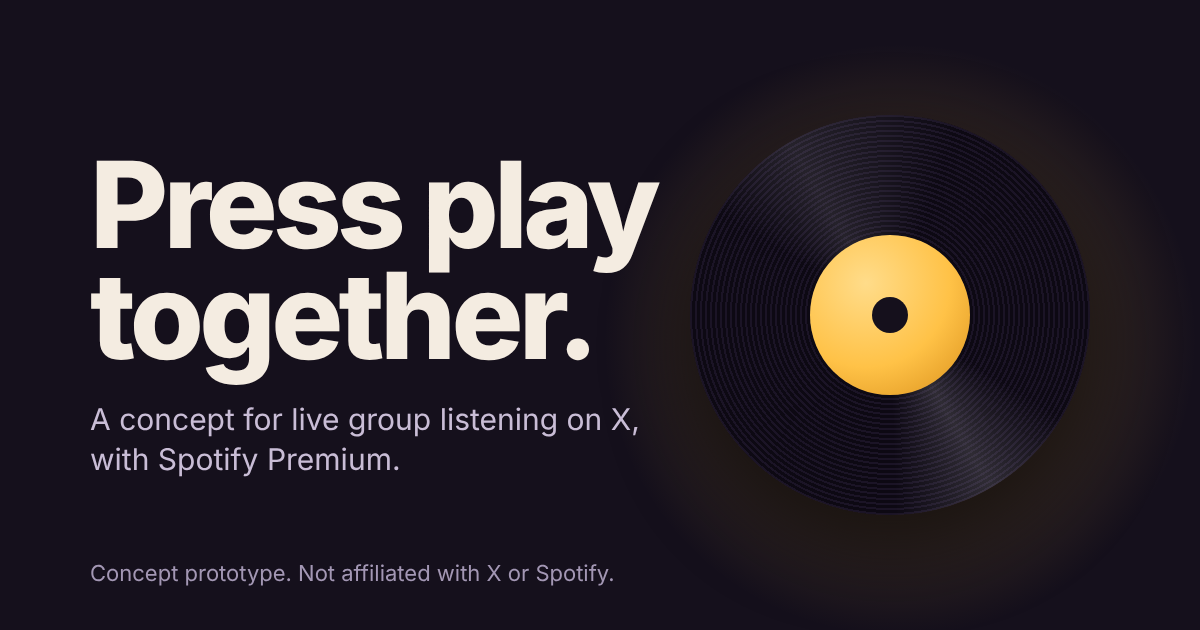
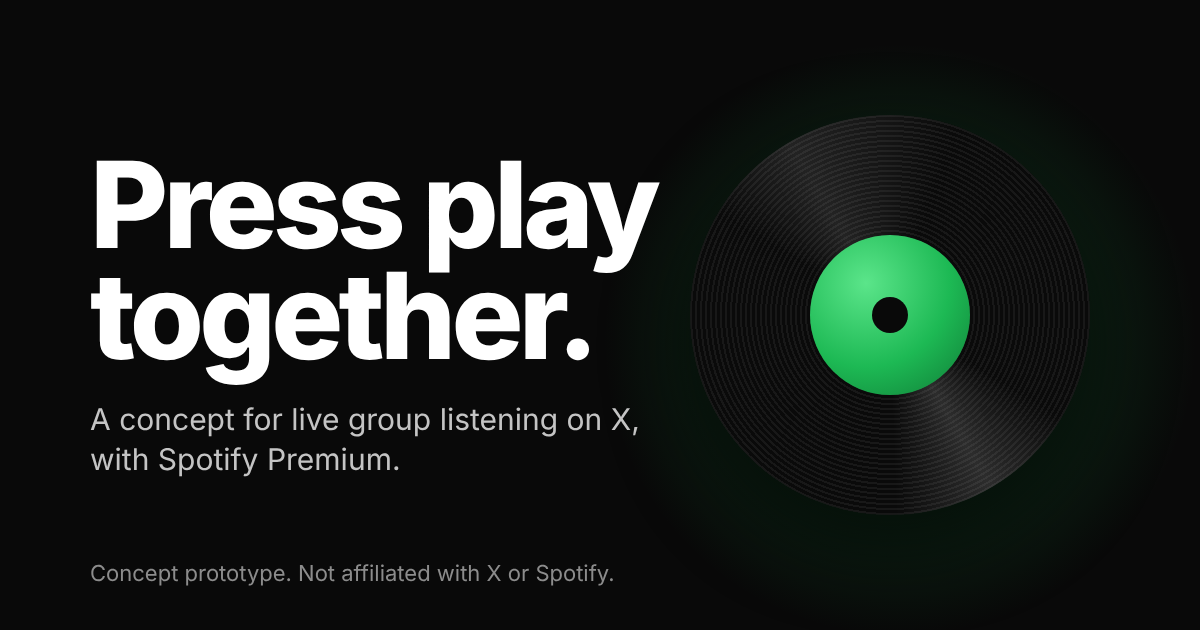
update message

diff --git a/assets/styles.css b/assets/styles.css
@@ -3,20 +3,21 @@
    Spotify green and X white appear only where content really comes from them. */
 
 :root {
-  --bg: #15101c;
-  --bg-2: #1b1424;
-  --surface: #211a2c;
-  --surface-2: #2b2238;
-  --line: #3a2f49;
-  --line-soft: #2e2540;
+  --bg: #090909;
+  --bg-2: #0d0d0d;
+  --surface: #111111;
+  --surface-2: #1a1a1a;
+  --line: #2a2a2a;
+  --line-soft: #1e1e1e;
 
-  --text: #f4ece1;
-  --text-2: #c9bdd6;
-  --muted: #a397b4;
+  --text: #ffffff;
+  --text-2: #c4c4c4;
+  --muted: #8c8c8c;
 
-  --lamp: #ffc247;
-  --lamp-ink: #2a1a00;
-  --lamp-soft: rgb(255 194 71 / 0.13);
+  --lamp: #1DB954;
+  --amber: #f39c12;
+  --lamp-ink: #000000;
+  --lamp-soft: rgb(29 185 84 / 0.13);
   --spotify: #1ed760;
   --x: #ffffff;
   --ok: #7be0a8;
@@ -104,10 +105,10 @@ h1:focus, h2:focus { outline: none; }
   font: 600 0.9375rem/1.2 var(--font-body); text-decoration: none; cursor: pointer;
   transition: background 0.15s, border-color 0.15s, transform 0.1s;
 }
-.btn:hover { background: #352a45; border-color: #4a3d5d; }
+.btn:hover { background: #262626; border-color: #3a3a3a; }
 .btn:active { transform: translateY(1px); }
 .btn.primary { background: var(--lamp); border-color: var(--lamp); color: var(--lamp-ink); }
-.btn.primary:hover { background: #ffd070; border-color: #ffd070; }
+.btn.primary:hover { background: #1ed760; border-color: #1ed760; }
 .btn.ghost { background: transparent; border-color: transparent; color: var(--text-2); }
 .btn.ghost:hover { background: var(--surface); color: var(--text); }
 .btn.sm { padding: 7px 14px; font-size: 0.875rem; }
@@ -148,7 +149,7 @@ h1:focus, h2:focus { outline: none; }
   padding: 10px 14px;
 }
 textarea { resize: vertical; }
-::placeholder { color: #8b7e9c; }
+::placeholder { color: #6f6f6f; }
 .input-icon { position: relative; display: block; }
 .input-icon > .i { position: absolute; left: 13px; top: 50%; translate: 0 -50%; color: var(--muted); pointer-events: none; }
 .input-icon > input { padding-left: 40px; }
@@ -201,11 +202,11 @@ input[type="range"]:disabled { opacity: 0.4; cursor: not-allowed; }
 /* ---------- Chips, avatars, covers ---------- */
 .chip {
   display: inline-flex; align-items: center; gap: 5px; padding: 3px 10px;
-  border-radius: 999px; border: 1px solid var(--line); background: rgb(21 16 28 / 0.72);
+  border-radius: 999px; border: 1px solid var(--line); background: rgb(9 9 9 / 0.72);
   color: var(--text-2); font-size: 0.75rem; font-weight: 600; white-space: nowrap;
 }
 .chip .i { width: 13px; height: 13px; }
-.chip.request { color: var(--lamp); border-color: rgb(255 194 71 / 0.4); }
+.chip.request { color: var(--amber); border-color: rgb(243 156 18 / 0.45); }
 .chip.private { color: var(--danger); border-color: rgb(255 138 138 / 0.4); }
 .chip-x { color: var(--x); border-color: rgb(255 255 255 / 0.45); }
 
@@ -229,7 +230,7 @@ input[type="range"]:disabled { opacity: 0.4; cursor: not-allowed; }
 }
 .cover::after {
   content: ""; position: absolute; inset: 27%; border-radius: 50%;
-  background: radial-gradient(circle, var(--bg) 0 9%, rgb(21 16 28 / 0.55) 10% 100%);
+  background: radial-gradient(circle, var(--bg) 0 9%, rgb(9 9 9 / 0.55) 10% 100%);
   box-shadow: 0 0 0 1px rgb(255 255 255 / 0.08);
 }
 .cover.sm, .cover.wide { aspect-ratio: auto; }
@@ -247,6 +248,7 @@ input[type="range"]:disabled { opacity: 0.4; cursor: not-allowed; }
 .notice .icon-btn { width: 30px; height: 30px; }
 
 .top {
+  min-width: 0;
   position: sticky; top: 0; z-index: 40;
   display: grid; grid-template-columns: auto 1fr auto; align-items: center; gap: 8px 20px;
   padding: 10px clamp(14px, 3vw, 28px);
@@ -256,10 +258,14 @@ input[type="range"]:disabled { opacity: 0.4; cursor: not-allowed; }
 }
 .brand { display: inline-flex; align-items: center; gap: 10px; text-decoration: none; }
 .brand-name { font: 800 1.2rem/1 var(--font-display); letter-spacing: -0.03em; }
-.mark { width: 30px; height: 30px; }
-.mark-ring { fill: none; stroke: var(--text); stroke-width: 2.4; }
-.mark-ring2 { fill: none; stroke: var(--text); stroke-opacity: 0.4; stroke-width: 2; }
-.mark-dot { fill: var(--lamp); }
+.lockup { display: inline-flex; align-items: center; gap: 6px; }
+.logo-tile { display: grid; place-items: center; width: 28px; height: 28px; border-radius: 8px; }
+.logo-tile.x { background: #fff; color: #000; }
+.logo-tile.sp { background: #1DB954; color: #fff; }
+.logo-tile svg { width: 15px; height: 15px; fill: currentColor; }
+.logo-times { color: var(--lamp); font-weight: 700; }
+.premium { margin-left: 2px; padding: 2px 7px; border-radius: 999px; background: linear-gradient(135deg, #1DB954, #1ed760); color: #000; font: 700 0.58rem/1.4 var(--font-body); letter-spacing: 0.02em; }
+.logo-g { width: 22px; height: 22px; fill: currentColor; stroke: none; }
 .tabs { display: flex; gap: 2px; overflow-x: auto; scrollbar-width: none; }
 .tabs::-webkit-scrollbar { display: none; }
 .tab {
@@ -270,6 +276,7 @@ input[type="range"]:disabled { opacity: 0.4; cursor: not-allowed; }
 .tab[aria-current="page"] { color: var(--text); background: var(--surface-2); }
 .tab-dot { width: 6px; height: 6px; border-radius: 50%; background: var(--lamp); margin-left: 7px; }
 .top-actions { display: flex; gap: 6px; align-items: center; }
+.top-actions .btn { white-space: nowrap; }
 
 /* ---------- Pages ---------- */
 .page { min-height: 60vh; padding-bottom: 40px; }
@@ -294,17 +301,17 @@ input[type="range"]:disabled { opacity: 0.4; cursor: not-allowed; }
 .circle { --size: min(86vw, 450px); --seat: clamp(38px, 9.5vw, 50px); position: relative; width: var(--size); aspect-ratio: 1; }
 .circle-glow {
   position: absolute; inset: -14%; pointer-events: none;
-  background: radial-gradient(closest-side, rgb(255 194 71 / 0.3), rgb(255 194 71 / 0.09) 58%, transparent 78%);
+  background: radial-gradient(closest-side, rgb(29 185 84 / 0.3), rgb(29 185 84 / 0.09) 58%, transparent 78%);
 }
 .rings i {
   position: absolute; inset: 0; margin: auto; width: 34%; aspect-ratio: 1; border-radius: 50%;
-  border: 1px solid rgb(255 194 71 / 0.4); animation: ring 3.9s ease-out infinite;
+  border: 1px solid rgb(29 185 84 / 0.4); animation: ring 3.9s ease-out infinite;
 }
 .rings i:nth-child(2) { animation-delay: 1.3s; }
 .rings i:nth-child(3) { animation-delay: 2.6s; }
 .record {
   position: absolute; inset: 0; margin: auto; width: 46%; aspect-ratio: 1; padding: 0; border: 0;
-  border-radius: 50%; cursor: pointer; overflow: hidden; background: #0d0913;
+  border-radius: 50%; cursor: pointer; overflow: hidden; background: #0a0a0a;
   box-shadow: 0 22px 60px rgb(0 0 0 / 0.55), inset 0 0 0 2px rgb(255 255 255 / 0.05);
   transition: scale 0.12s;
 }
@@ -313,12 +320,12 @@ input[type="range"]:disabled { opacity: 0.4; cursor: not-allowed; }
   content: ""; position: absolute; inset: 0; border-radius: 50%;
   background:
     conic-gradient(from 20deg, transparent 0 28%, rgb(255 255 255 / 0.14) 36%, transparent 44% 78%, rgb(255 255 255 / 0.1) 86%, transparent),
-    repeating-radial-gradient(circle at center, #0d0913 0 2px, #1b1426 2px 3px);
+    repeating-radial-gradient(circle at center, #0a0a0a 0 2px, #181818 2px 3px);
   animation: spin 14s linear infinite;
 }
 .record-label {
   position: absolute; inset: 30%; border-radius: 50%;
-  background: radial-gradient(circle at 35% 30%, #ffdc8a, var(--lamp) 55%, #d98f1a);
+  background: radial-gradient(circle at 35% 30%, #5be58a, var(--lamp) 55%, #0f7a35);
   animation: spin 14s linear infinite;
 }
 .record-label::after {
@@ -399,7 +406,7 @@ input[type="range"]:disabled { opacity: 0.4; cursor: not-allowed; }
   background: transparent; border: 1px solid var(--line); color: var(--text-2);
   font: 500 0.9rem var(--font-body); white-space: nowrap; cursor: pointer;
 }
-.pill:hover { border-color: #4a3d5d; color: var(--text); }
+.pill:hover { border-color: #3a3a3a; color: var(--text); }
 .pill[aria-selected="true"] { background: var(--text); border-color: var(--text); color: var(--bg); }
 .badge {
   display: grid; place-items: center; min-width: 18px; height: 18px; padding: 0 5px;
@@ -469,7 +476,7 @@ input[type="range"]:disabled { opacity: 0.4; cursor: not-allowed; }
 .req { display: grid; grid-template-columns: 48px minmax(0, 1fr) auto auto; gap: 14px; align-items: center; padding: 12px 0; border-top: 1px solid var(--line-soft); }
 .req .thumb { width: 48px; border-radius: 10px; overflow: hidden; }
 .status { display: inline-flex; align-items: center; gap: 6px; padding: 4px 11px; border-radius: 999px; font-size: 0.8125rem; font-weight: 600; border: 1px solid var(--line); }
-.status.pending { color: var(--lamp); border-color: rgb(255 194 71 / 0.4); }
+.status.pending { color: var(--amber); border-color: rgb(243 156 18 / 0.45); }
 .status.approved { color: var(--ok); border-color: rgb(123 224 168 / 0.4); }
 .status.denied { color: var(--danger); border-color: rgb(255 138 138 / 0.4); }
 .status .i { width: 14px; height: 14px; }
@@ -510,7 +517,7 @@ input[type="range"]:disabled { opacity: 0.4; cursor: not-allowed; }
   position: relative; width: 84px; aspect-ratio: 1; border-radius: 50%;
   background:
     conic-gradient(from 20deg, transparent 0 28%, rgb(255 255 255 / 0.13) 36%, transparent 44% 78%, rgb(255 255 255 / 0.09) 86%, transparent),
-    repeating-radial-gradient(circle at center, #0d0913 0 2px, #1b1426 2px 3px);
+    repeating-radial-gradient(circle at center, #0a0a0a 0 2px, #181818 2px 3px);
   box-shadow: 0 10px 28px rgb(0 0 0 / 0.5); animation: spin 10s linear infinite;
 }
 .vinyl.paused { animation-play-state: paused; }
@@ -528,7 +535,7 @@ input[type="range"]:disabled { opacity: 0.4; cursor: not-allowed; }
   display: grid; place-items: center; width: 58px; height: 58px; border-radius: 50%; border: 0;
   background: var(--lamp); color: var(--lamp-ink); cursor: pointer; transition: scale 0.12s, background 0.15s;
 }
-.play:hover { background: #ffd070; }
+.play:hover { background: #1ed760; }
 .play:active { scale: 0.94; }
 .play:disabled { opacity: 0.4; cursor: not-allowed; }
 .play .i { width: 24px; height: 24px; }
@@ -604,10 +611,10 @@ input[type="range"]:disabled { opacity: 0.4; cursor: not-allowed; }
 .connect-steps { list-style: none; padding: 0; display: grid; gap: 14px; margin-bottom: 28px; }
 .cstep { background: var(--surface); border-radius: var(--r-lg); padding: 18px; border: 1px solid transparent; transition: opacity 0.2s; }
 .cstep[aria-disabled="true"] { opacity: 0.5; }
-.cstep.is-active { border-color: rgb(255 194 71 / 0.5); }
+.cstep.is-active { border-color: rgb(29 185 84 / 0.5); }
 .cstep-head { display: grid; grid-template-columns: 46px 1fr auto; gap: 16px; align-items: center; }
-.cstep-badge { display: grid; place-items: center; width: 46px; height: 46px; border-radius: 13px; background: var(--x); color: #000; font: 800 1.3rem var(--font-display); }
-.cstep-badge.sp { background: var(--spotify); }
+.cstep-badge { display: grid; place-items: center; width: 46px; height: 46px; border-radius: 13px; background: var(--x); color: #000; }
+.cstep-badge.sp { background: #1DB954; color: #fff; }
 .cstep-badge.ok { background: var(--lamp-soft); color: var(--lamp); }
 .cstep-badge .i { width: 22px; height: 22px; }
 .cstep-done { display: flex; align-items: center; gap: 8px; margin-top: 14px; color: var(--ok); font-weight: 600; }
@@ -648,7 +655,7 @@ table { width: 100%; border-collapse: collapse; font-size: 0.9rem; }
 th { text-align: left; font-weight: 600; font-size: 0.8125rem; color: var(--muted); padding: 11px 14px; }
 td { padding: 12px 14px; border-top: 1px solid var(--line-soft); vertical-align: top; }
 td code { color: var(--text); overflow-wrap: anywhere; }
-td.warn { color: var(--lamp); font-weight: 600; }
+td.warn { color: var(--amber); font-weight: 600; }
 
 /* ---------- Proposal ---------- */
 .doc { width: min(820px, 100% - 2 * var(--gutter)); }
@@ -673,7 +680,7 @@ td.warn { color: var(--lamp); font-weight: 600; }
   width: min(500px, calc(100% - 24px)); max-height: min(90dvh, 740px); overflow: hidden;
   box-shadow: 0 30px 90px rgb(0 0 0 / 0.65), 0 0 0 1px var(--line-soft);
 }
-.modal::backdrop { background: rgb(10 6 14 / 0.78); -webkit-backdrop-filter: blur(3px); backdrop-filter: blur(3px); }
+.modal::backdrop { background: rgb(0 0 0 / 0.78); -webkit-backdrop-filter: blur(3px); backdrop-filter: blur(3px); }
 .modal[open] { animation: pop 0.22s ease-out; }
 .modal > form, .modal > div { display: flex; flex-direction: column; max-height: min(90dvh, 740px); }
 .modal-head { display: flex; justify-content: space-between; align-items: center; padding: 18px 20px 8px; }
@@ -688,8 +695,8 @@ td.warn { color: var(--lamp); font-weight: 600; }
 .res .meta { overflow: hidden; text-overflow: ellipsis; white-space: nowrap; }
 .room-mini { display: grid; grid-template-columns: 48px 1fr; gap: 12px; align-items: center; padding: 12px; border-radius: 14px; background: var(--surface); }
 .room-mini .thumb { width: 48px; border-radius: 10px; overflow: hidden; }
-.pending { display: flex; gap: 12px; align-items: flex-start; padding: 12px; border-radius: 14px; background: var(--lamp-soft); }
-.pending .i { color: var(--lamp); margin-top: 2px; }
+.pending { display: flex; gap: 12px; align-items: flex-start; padding: 12px; border-radius: 14px; background: rgb(243 156 18 / 0.12); }
+.pending .i { color: var(--amber); margin-top: 2px; }
 
 /* ---------- Toasts ---------- */
 .toasts { position: fixed; z-index: 100; right: 16px; top: 16px; display: grid; gap: 8px; width: min(370px, calc(100% - 32px)); pointer-events: none; }
@@ -707,10 +714,10 @@ td.warn { color: var(--lamp); font-weight: 600; }
 /* ---------- Tour ---------- */
 .tour { position: fixed; inset: 0; z-index: 90; }
 .tour-block { position: absolute; inset: 0; }
-.tour-block.dim { background: rgb(10 6 14 / 0.8); }
+.tour-block.dim { background: rgb(0 0 0 / 0.8); }
 .tour-spot {
   position: fixed; border-radius: 14px; pointer-events: none;
-  box-shadow: 0 0 0 9999px rgb(10 6 14 / 0.8); outline: 2px solid var(--lamp); outline-offset: 3px;
+  box-shadow: 0 0 0 9999px rgb(0 0 0 / 0.8); outline: 2px solid var(--lamp); outline-offset: 3px;
   transition: left 0.25s, top 0.25s, width 0.25s, height 0.25s;
 }
 .tour-card {
@@ -723,7 +730,7 @@ td.warn { color: var(--lamp); font-weight: 600; }
 .dots { display: flex; gap: 5px; margin: 14px 0; }
 .dots i { width: 6px; height: 6px; border-radius: 3px; background: var(--line); transition: width 0.2s, background 0.2s; }
 .dots i.on { width: 18px; background: var(--lamp); }
-.dots i.past { background: rgb(255 194 71 / 0.4); }
+.dots i.past { background: rgb(29 185 84 / 0.4); }
 .tour-btns { display: flex; align-items: center; gap: 8px; }
 
 /* ---------- Footer ---------- */
@@ -774,6 +781,10 @@ td.warn { color: var(--lamp); font-weight: 600; }
   .cstep-head .btn { grid-column: 1 / -1; }
 }
 @media (max-width: 560px) {
+  .premium { display: none; }
+  .brand { gap: 7px; } .brand-name { font-size: 1.05rem; }
+  .logo-tile { width: 24px; height: 24px; border-radius: 7px; } .logo-tile svg { width: 13px; height: 13px; }
+  .top-actions .btn.sm { padding: 7px 12px; }
   .btn.sm span { display: inline; }
   #tourBtn span { display: none; }
   #tourBtn { padding-inline: 10px; }

diff --git a/index.html b/index.html
@@ -5,7 +5,7 @@
 <meta name="viewport" content="width=device-width, initial-scale=1, viewport-fit=cover">
 <title>SoundRoom: a concept for listening together on X with Spotify</title>
 <meta name="description" content="SoundRoom is a clickable concept for live group listening. X Spaces voice and Spotify Premium playback in one room, with a shared queue, chat and reactions.">
-<meta name="theme-color" content="#15101C">
+<meta name="theme-color" content="#090909">
 <meta name="color-scheme" content="dark">
 <link rel="canonical" href="https://poweressien.github.io/X-x-Spotify-sound-room/">
 <meta http-equiv="Content-Security-Policy" content="default-src 'none'; script-src 'self'; style-src 'self' https://fonts.googleapis.com; font-src https://fonts.gstatic.com; img-src 'self' data:; connect-src 'self'; base-uri 'none'; form-action 'none'">
@@ -81,8 +81,13 @@
 
 <header class="top" id="top">
   <a class="brand" href="#/" aria-label="SoundRoom home">
-    <svg class="mark" viewBox="0 0 32 32" aria-hidden="true"><circle cx="16" cy="16" r="13" class="mark-ring"/><circle cx="16" cy="16" r="7" class="mark-ring2"/><circle cx="16" cy="16" r="3" class="mark-dot"/></svg>
+    <span class="lockup" aria-hidden="true">
+      <span class="logo-tile x"><svg viewBox="0 0 24 24"><path d="M18.244 2.25h3.308l-7.227 8.26 8.502 11.24H16.17l-4.714-6.231-5.401 6.231H2.744l7.73-8.835L1.254 2.25H8.08l4.253 5.622zm-1.161 17.52h1.833L7.084 4.126H5.117z"/></svg></span>
+      <span class="logo-times">×</span>
+      <span class="logo-tile sp"><svg viewBox="0 0 24 24"><path d="M12 0C5.4 0 0 5.4 0 12s5.4 12 12 12 12-5.4 12-12S18.66 0 12 0zm5.521 17.34c-.24.359-.66.48-1.021.24-2.82-1.74-6.36-2.101-10.561-1.141-.418.122-.779-.179-.899-.539-.12-.421.18-.78.54-.9 4.56-1.021 8.52-.6 11.64 1.32.42.18.479.659.301 1.02zm1.44-3.3c-.301.42-.841.6-1.262.3-3.239-1.98-8.159-2.58-11.939-1.38-.479.12-1.02-.12-1.14-.6-.12-.48.12-1.021.6-1.141C9.6 9.9 15 10.561 18.72 12.84c.361.181.54.78.241 1.2zm.12-3.36C15.24 8.4 8.82 8.16 5.16 9.301c-.6.179-1.2-.181-1.38-.721-.18-.601.18-1.2.72-1.381 4.26-1.26 11.28-1.02 15.721 1.621.539.3.719 1.02.419 1.56-.299.421-1.02.599-1.559.3z"/></svg></span>
+    </span>
     <span class="brand-name">SoundRoom</span>
+    <span class="premium">PREMIUM</span>
   </a>
   <nav class="tabs" aria-label="Sections">
     <a class="tab" href="#/" data-page="overview">Overview</a>
@@ -375,7 +380,7 @@
     <ol class="connect-steps">
       <li class="cstep is-active" id="step-x">
         <div class="cstep-head">
-          <span class="cstep-badge" aria-hidden="true">X</span>
+          <span class="cstep-badge" aria-hidden="true"><svg class="logo-g" viewBox="0 0 24 24"><path d="M18.244 2.25h3.308l-7.227 8.26 8.502 11.24H16.17l-4.714-6.231-5.401 6.231H2.744l7.73-8.835L1.254 2.25H8.08l4.253 5.622zm-1.161 17.52h1.833L7.084 4.126H5.117z"/></svg></span>
           <div class="cstep-text"><h2 class="h3">Sign in with X</h2><p class="soft">Gives SoundRoom your profile, your followers list and permission to send invites by direct message.</p></div>
           <button class="btn" type="button" id="btnX">Connect X</button>
         </div>
@@ -390,7 +395,7 @@
       </li>
       <li class="cstep" id="step-sp" aria-disabled="true">
         <div class="cstep-head">
-          <span class="cstep-badge sp" aria-hidden="true">S</span>
+          <span class="cstep-badge sp" aria-hidden="true"><svg class="logo-g" viewBox="0 0 24 24"><path d="M12 0C5.4 0 0 5.4 0 12s5.4 12 12 12 12-5.4 12-12S18.66 0 12 0zm5.521 17.34c-.24.359-.66.48-1.021.24-2.82-1.74-6.36-2.101-10.561-1.141-.418.122-.779-.179-.899-.539-.12-.421.18-.78.54-.9 4.56-1.021 8.52-.6 11.64 1.32.42.18.479.659.301 1.02zm1.44-3.3c-.301.42-.841.6-1.262.3-3.239-1.98-8.159-2.58-11.939-1.38-.479.12-1.02-.12-1.14-.6-.12-.48.12-1.021.6-1.141C9.6 9.9 15 10.561 18.72 12.84c.361.181.54.78.241 1.2zm.12-3.36C15.24 8.4 8.82 8.16 5.16 9.301c-.6.179-1.2-.181-1.38-.721-.18-.601.18-1.2.72-1.381 4.26-1.26 11.28-1.02 15.721 1.621.539.3.719 1.02.419 1.56-.299.421-1.02.599-1.559.3z"/></svg></span>
           <div class="cstep-text"><h2 class="h3">Sign in with Spotify</h2><p class="soft">Lets your own Spotify Premium player play the room's songs. Audio streams straight from Spotify to you.</p></div>
           <button class="btn" type="button" id="btnSp" disabled>Connect Spotify</button>
         </div>

diff --git a/assets/app.js b/assets/app.js
@@ -54,7 +54,7 @@
     const pa = hexRgb(a), pb = hexRgb(b);
     return '#' + pa.map((v, i) => Math.round(v + (pb[i] - v) * t).toString(16).padStart(2, '0')).join('');
   };
-  const BG = '#15101C';
+  const BG = '#090909';
   function cover(color, seed, cls) {
     return h('span', { class: 'cover' + (cls ? ' ' + cls : ''), vars: { '--c1': color, '--c2': mix(color, BG, 0.6), '--rot': (seed * 47) % 180 + 90 } });
   }
@@ -68,7 +68,7 @@
   /* ------------------------------------------------------------------ */
   /* Data (all invented)                                                */
   /* ------------------------------------------------------------------ */
-  const ME = { handle: '@alexmusic', name: 'Alex M.', av: 'A', color: '#FFC247' };
+  const ME = { handle: '@alexmusic', name: 'Alex M.', av: 'A', color: '#1DB954' };
   const GENRES = {
     afrobeats: { label: 'Afrobeats', color: '#FF8F3F' },
     hiphop: { label: 'Hip-hop', color: '#F25F5C' },
@@ -82,7 +82,7 @@
   const PALETTE = Object.values(GENRES).map((g) => g.color);
 
   const MEMBERS = [
-    { handle: '@alexmusic', name: 'Alex M.', av: 'A', color: '#FFC247', active: true },
+    { handle: '@alexmusic', name: 'Alex M.', av: 'A', color: '#1DB954', active: true },
     { handle: '@jazzlover99', name: 'Jazz', av: 'J', color: '#8DBBFF', active: true },
     { handle: '@beatmaster', name: 'Beat M.', av: 'B', color: '#FF8A8A', active: true },
     { handle: '@soulvibes', name: 'Soul V.', av: 'S', color: '#F59E6B', active: true },
@@ -612,7 +612,7 @@
     const seek = $('#seek');
     seek.max = String(t ? parseDur(t.dur) : 100);
     seek.disabled = !t;
-    $('#vinyl').style.setProperty('--c1', t ? t.color : '#ffc247');
+    $('#vinyl').style.setProperty('--c1', t ? t.color : '#1DB954');
     $('#vinyl').classList.toggle('paused', !state.playing);
     $('#eq').classList.toggle('paused', !state.playing);
     const pb = $('#playBtn');
@@ -798,7 +798,7 @@
   function chatNode(m) {
     if (m.sys) return h('p', { class: 'sys' }, m.msg);
     const mem = memberOf(m.user) || (m.user === ME.handle ? ME : null);
-    const color = mem ? mem.color : '#a397b4';
+    const color = mem ? mem.color : '#8c8c8c';
     return h('div', { class: 'msg' },
       h('span', { class: 'av', vars: { '--c': color, '--s': '28px' }, 'aria-hidden': 'true' }, m.user.charAt(1).toUpperCase()),
       h('div', null,
